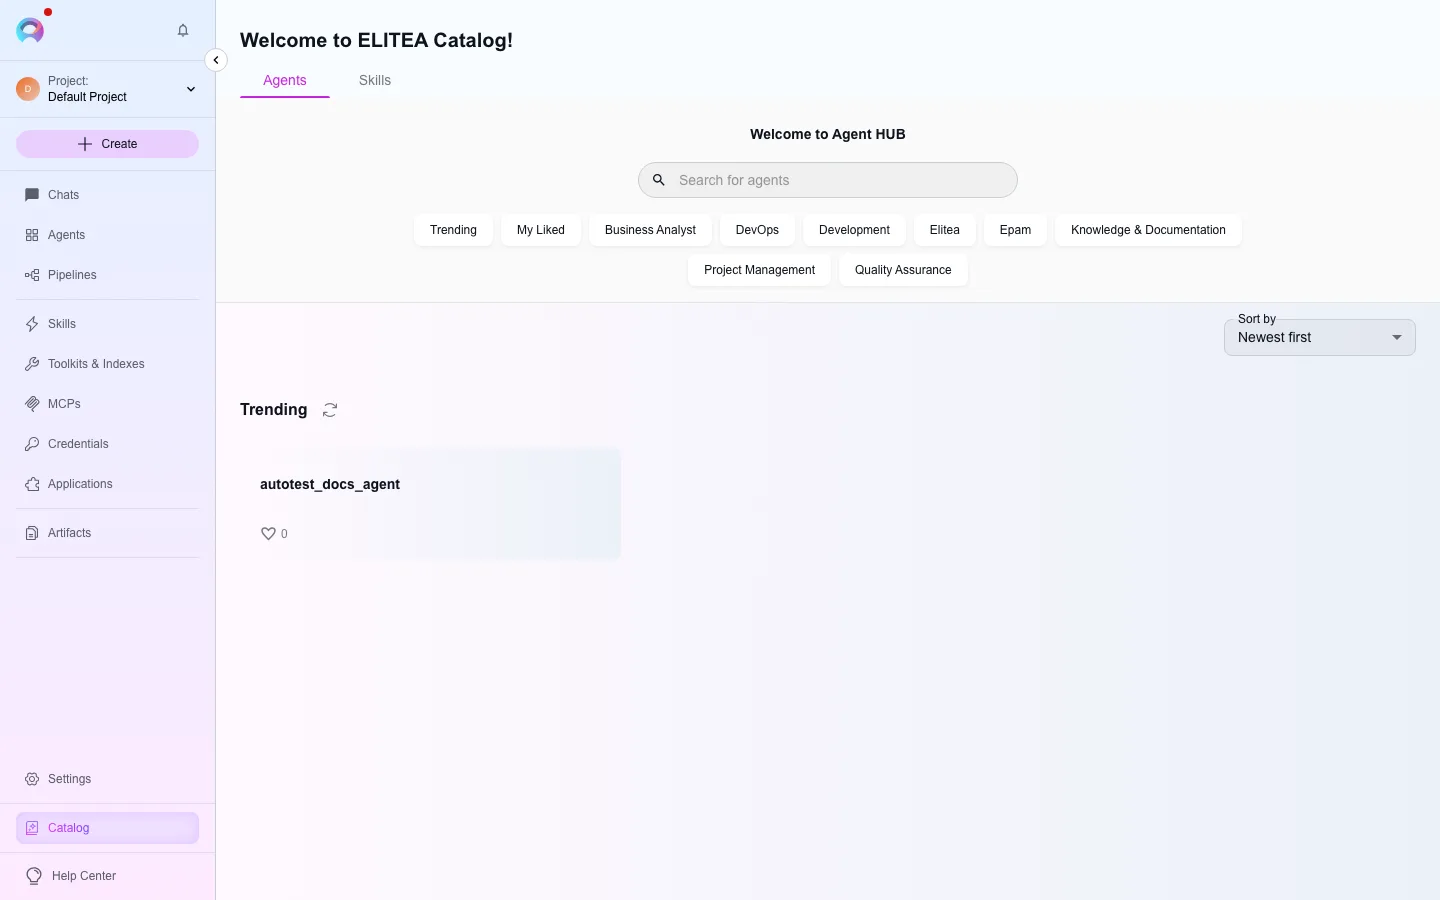
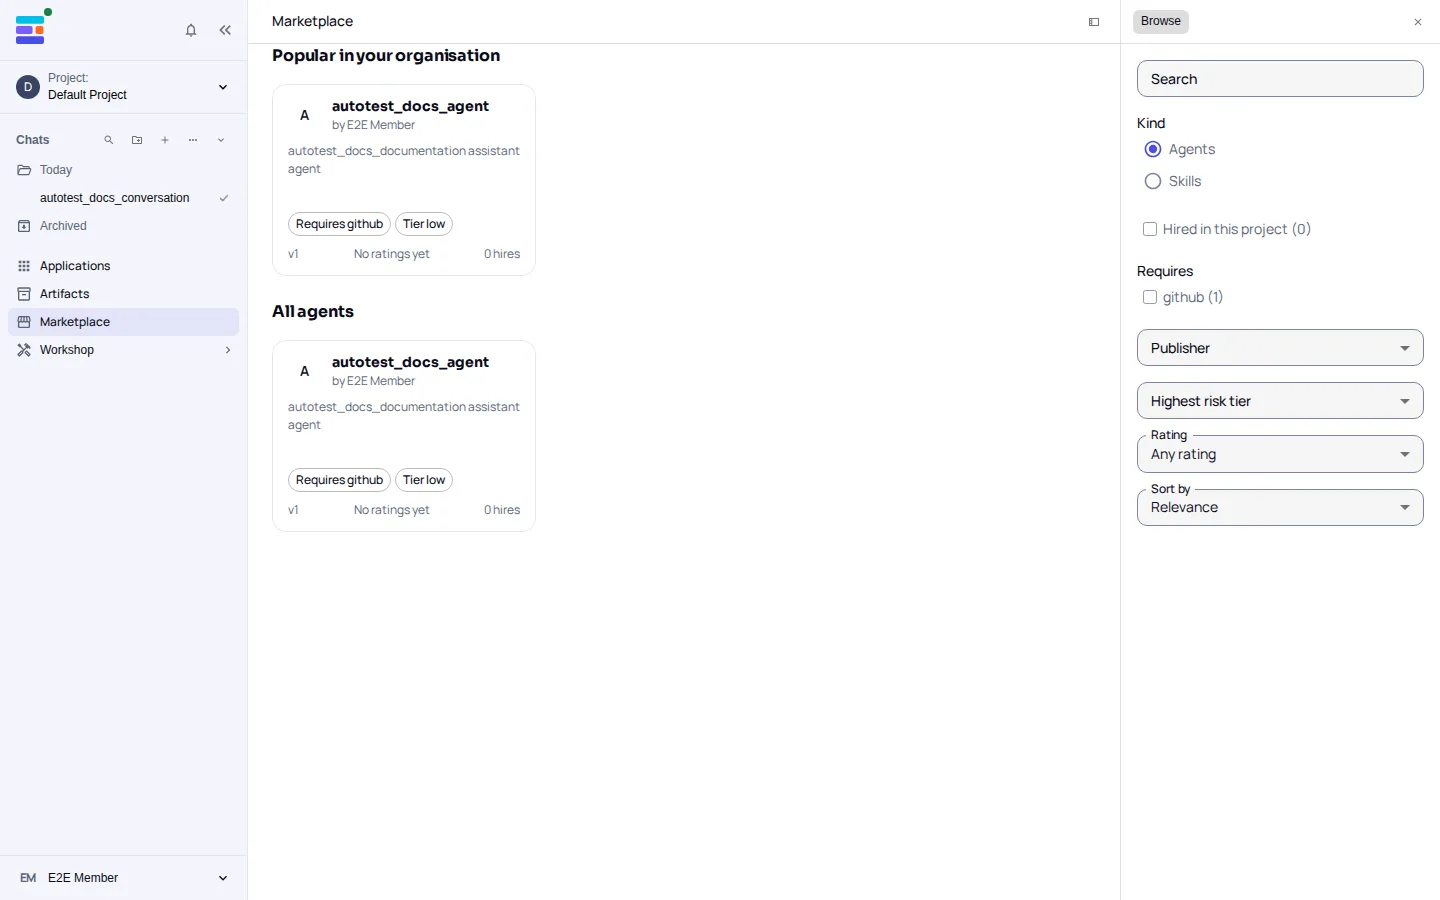
test(visual): marketplace landmark is the resolved listing search, not a category; docs shot catalog-agents (#1629)

diff --git a/apps/elitea-web/e2e/visual/routes.visual.spec.ts b/apps/elitea-web/e2e/visual/routes.visual.spec.ts
@@ -448,15 +448,17 @@ const ROUTES: readonly VisualRoute[] = [
     // @covers /marketplace
     name: 'marketplace',
     path: '/app/marketplace',
-    // A category checkbox in the Browse sidebar, which comes from the API. The
-    // page's obvious landmarks all fail the experiment: the summary bar, the
-    // search box and "No listings match" are present during load (loaded YES,
-    // stalled YES), so the stalled screen is a plausible-looking Marketplace
-    // with no categories, which is exactly the kind of screenshot this suite
-    // must not accept. `Business Analyst` is one of the fetched categories
-    // (`useGetAgentCategories`): loaded YES, stalled no. The viewport is wider
-    // than 1440px, so the sidebar is open by default and the checkbox shows.
-    landmark: (page) => page.getByRole('checkbox', { name: 'Business Analyst' }),
+    // WHAT ONLY A RESOLVED LISTING SEARCH PRODUCES. Categories used to come
+    // from their own endpoint (`useGetAgentCategories`), so a category
+    // checkbox was the landmark; they are now the facet counts of the listings
+    // search itself, so a stack with no published listing has no category at
+    // all. The page's other landmarks (the summary bar, the search box) are
+    // present during load, and the empty copy and the grid's section are
+    // rendered only once the search has answered: `LinearProgress` stands in
+    // until then. So the landmark is either of the two answers: the empty
+    // state or the "All agents" section. Loaded YES, stalled no.
+    landmark: (page) =>
+      page.getByText('Nothing is published yet').or(page.getByTestId('marketplace-section-all')),
     light: true,
   },
   {
